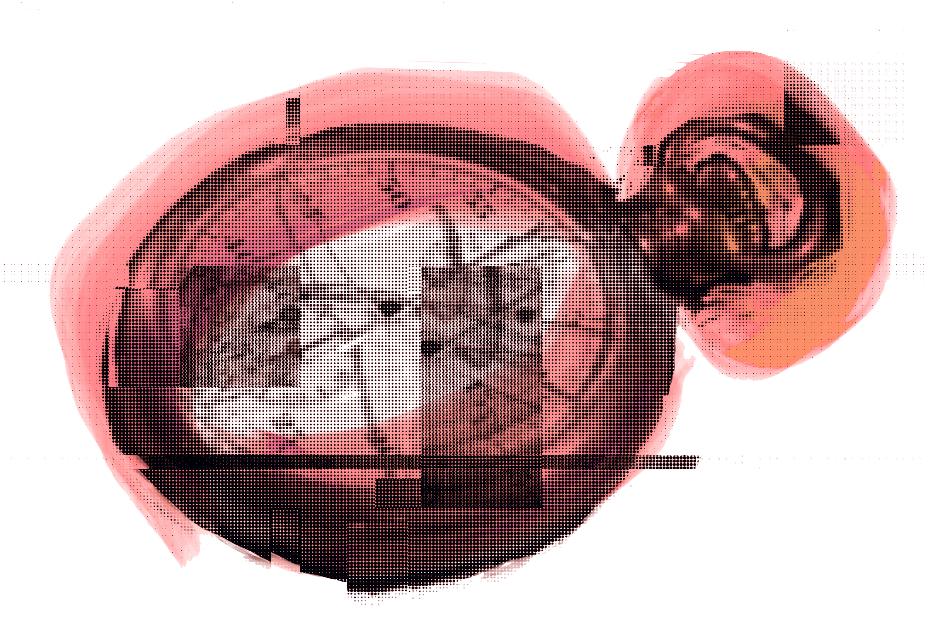
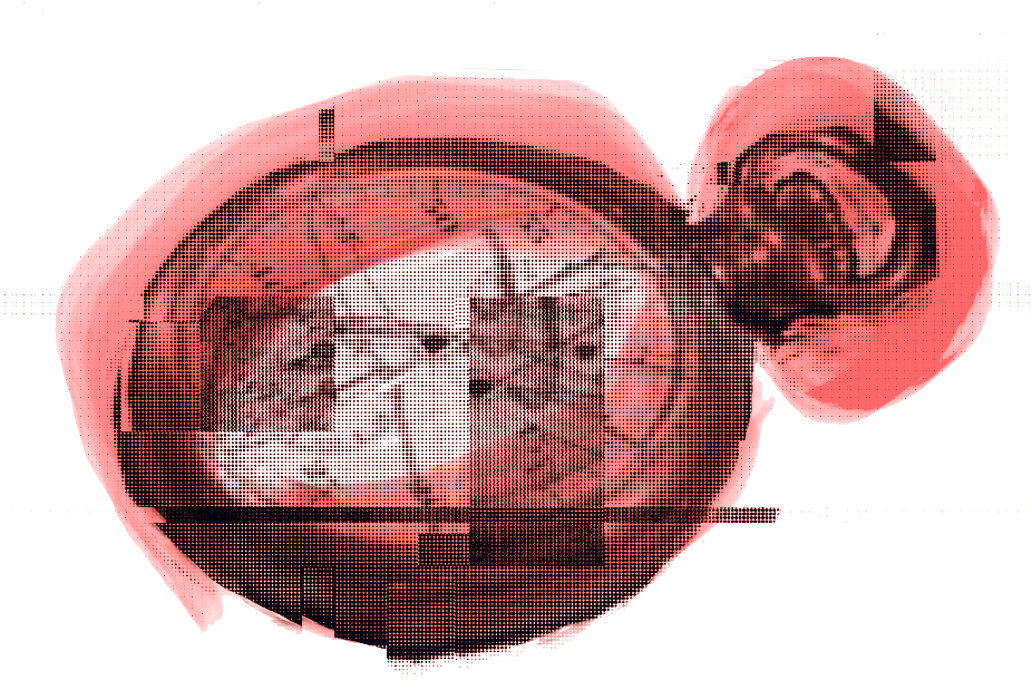
and create shapes

Changed region(s): [[0.0907, 0.121, 0.9676, 0.9682]]

diff --git a/styles.css b/styles.css
@@ -36,7 +36,7 @@
         text-align: center;
         background-size: cover;
         background-position: center;
-        background-image: url("bgs/skynighttwilight.jpeg");
+        background-image: url("bgs/blotchsky.jpeg");
         background-repeat: repeat-y;
     }
 
@@ -84,7 +84,8 @@
 .grid-container {
   display: grid;
   grid-template-columns: repeat(3, 100px);
-  justify-content: space-between;
+  gap: 20px;
+  justify-content: center;
   max-width: 1080px;
   align-content: center;
 }
